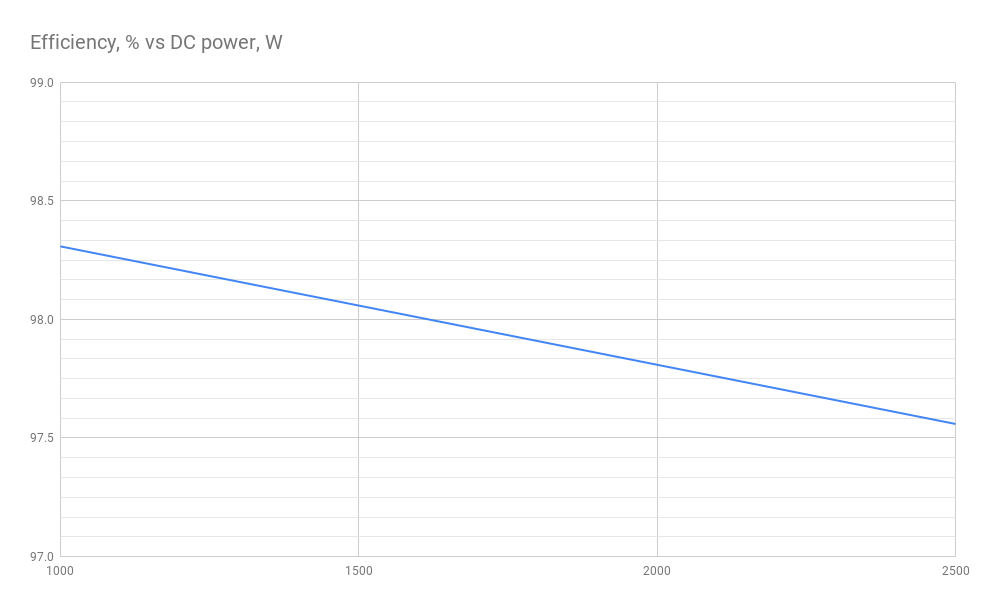
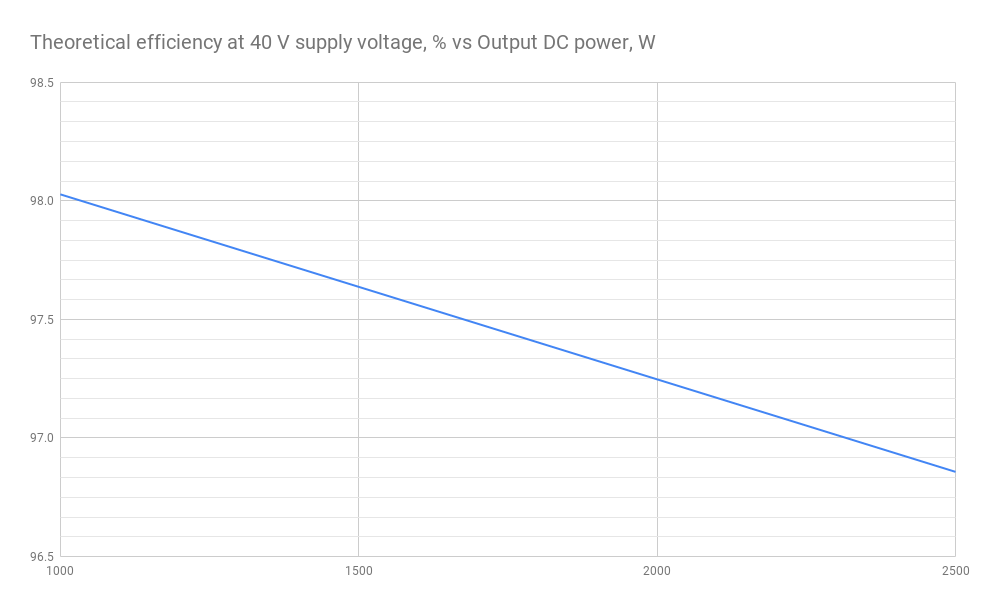
efficiency graph update

diff --git a/README.md b/README.md
@@ -24,7 +24,7 @@ Zubax Komar is a high-quality FOC ESC based on [Telega](https://zubax.com/techno
 
   <img src="pics/connectors leds.png" alt="Komar connectors and LEDs placement" style="zoom:50%;"/>
 
-Due to its superb efficiency Komar can operate at high power levels using only a very lightweight and compact heatsink to cool the device down. 
+Due to its superb efficiency Komar can operate at high power levels using only a very lightweight and compact heatsink to cool the device down. Komar's theoretical efficiency graph vs output power can be seen below. It should be noted that efficiency tends to decrease with supply voltage. The picture below is correct for 40 V supply voltage which corresponds to a discharged 12S  LiCoO<sub>2</sub> battery. 
 
 ![](pics/Efficiency.png)
 
